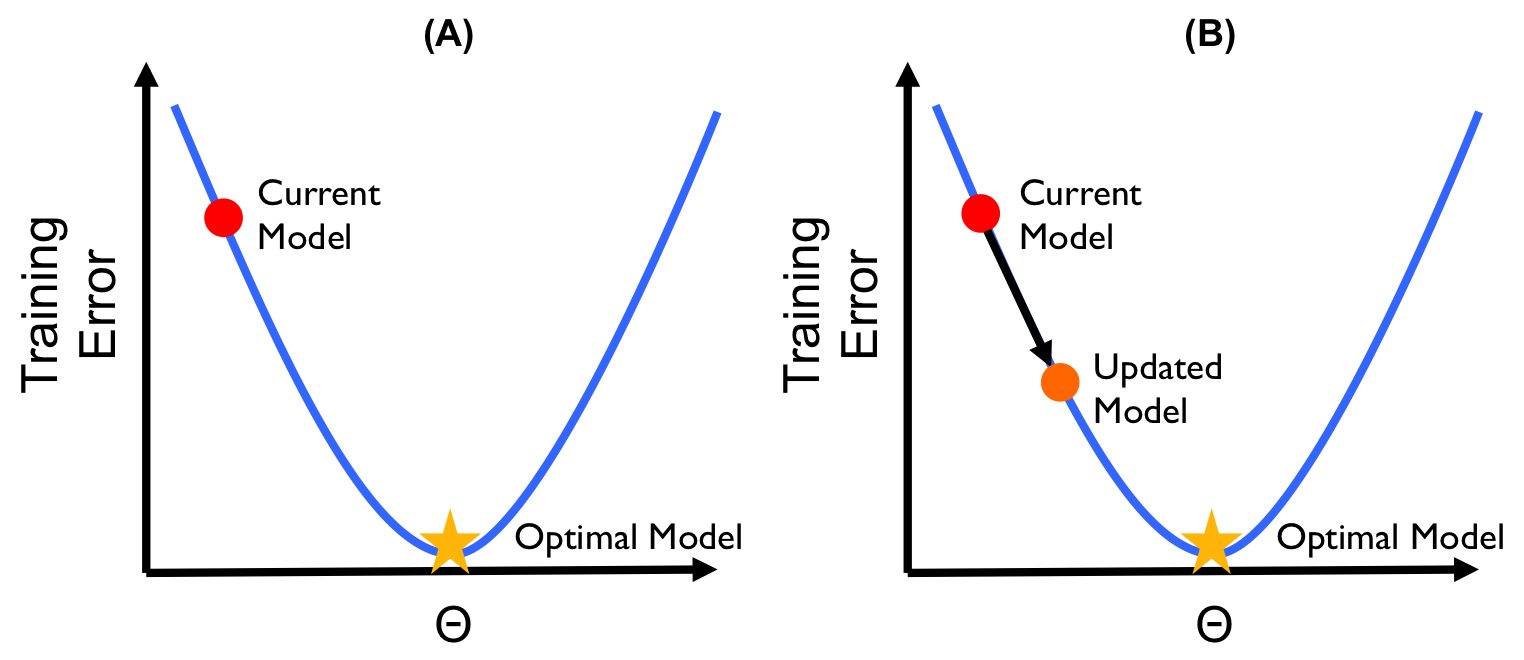
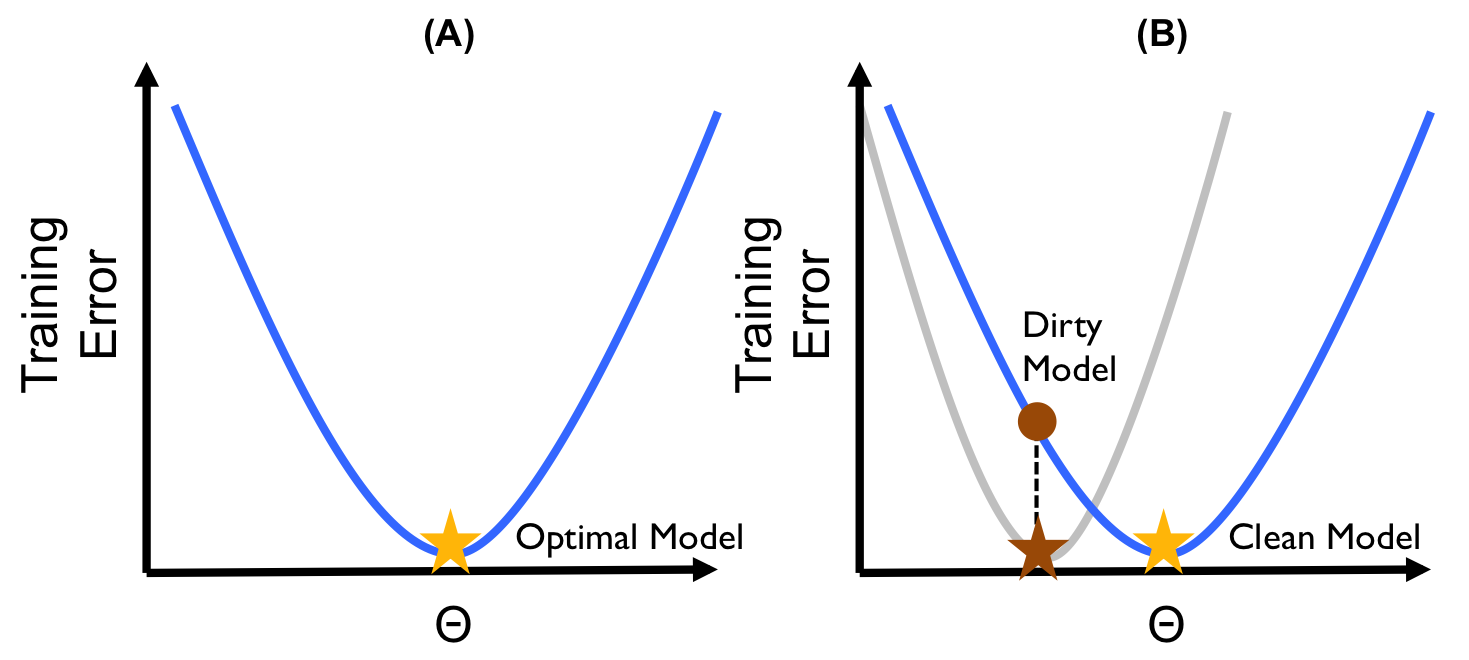
Updated

diff --git a/optimal.tex b/optimal.tex
@@ -1,11 +1,15 @@
 \section{Iterative Model Update}\label{model-update}
-In this section, we describe how we iteratively update a dirty model based on
+In this section, we describe how we can iteratively update a dirty model based on
 a cleaned batch of data.
 We will show that this model update procedure can be interpreted as a Stochastic 
 Gradient Descent (SGD) algorithm, which gives us a theoretical framework to analyze
 convergence and bound the error at each step.
 
 \subsection{Model Update Problem}
+The high level challenge is that we want a model update technique that takes advantage of the entire dirty data and a small sample of cleaned data.
+We want this technique to have some provable guarantees like the conditions under which we converge to the right answer as the entire data is cleaned, bounds on error of intermediate results, and at least a guarantee in expectation that the error will not increase after cleaning more data.  
+
+First, let us describe the abstract problem.
 Suppose we have a cleaned batch of data $S_{clean}$ with features and labels $(X_{clean},Y_{clean})$, and a dirty model $\theta^{(d)}$. 
 In the model update problem, we update the dirty model with some function $f(\cdot)$ i.e.,:
 \[
@@ -16,28 +20,49 @@ Our goal is that these updates should minimize the error of the updated model an
 error(\theta^{new}) = \| \theta^{new} - \theta^{(c)} \|
 \]
 
-\subsection{Exploiting the Model's Geometry}
-\sys addresses the update problem by using the model's geometry.
+There are a couple of challenges that we address in this section.
+As described in our architecture, we do not want to clean data that we have already cleaned or is expected to be clean.
+This leads to our first challenge since the sample $S_{dirty}$ may not be representative of the full data, only $R_{dirty}$. 
+We have to design our update in such a way that it does not bias our result towards the newly cleaned data. 
+The second challenge is that we need to get the sample $S_{dirty}$ from $R_{dirty}$.
+Some records, if cleaned, are more informative than others.
+We show how to incorporate non-uniform sampling into our update and formulate the theoretical optimal sampling problem.
+In the next section, we will discuss how to practically address the optimal sampling problem.
+
+\subsection{The Geometry Of The Problem}
+Let us try to understand the geometry of this problem in one dimension (i.e., the parameter $\theta$ is a scalar vale).
 We restrict the class of Machine Learning models to convex regularized loss problems.
 That is, as we vary the model $\theta$ the loss is bowl-shaped (visualized in Figure \ref{update-arch2}a).
-The model update problem can be visualized as follows.
-We have a model $\theta^{(d)}$ (visualized in red) that is suboptimal with respect to the clean data.
-We want to get to the optimal clean model $\theta^{(c)}$ which is visualized as a yellow star.
+There is a unique optimal value for $\theta$ at the bottom of the bowl.
+If we have dirty data, we are training a model with respect to an incorrect data distribution.
+In other words, we are optimizing the wrong function (Figure \ref{update-arch2}b).
+The resulting dirty model can be thought of as a suboptimal point on clean curve.
 
 \begin{figure}[ht!]
 \centering
  \includegraphics[width=\columnwidth]{figs/update-arch2.png}
- \caption{In \sys, we explore an important class of Machine Learning problems where the loss function (i.e., training error) varies convexly. A stale model can be thought of as a sub-optimal point and we want to move towards the optimal point. \label{update-arch2}}
+ \caption{In \sys, we explore an important class of Machine Learning problems where the loss function (i.e., training error) varies convexly. An incorrect model can be thought of as a sub-optimal point. \label{update-arch2}}
 \end{figure}
 
-Ideally, we want an update that goes in the right direction (one that points to the optimum) along the loss curve (Figure \ref{update-arch2}b).
+We have a model $\theta^{(d)}$ (visualized in brown) that is suboptimal with respect to the clean data.
+We want to get to the optimal clean model $\theta^{(c)}$ which is visualized as a yellow star.
+If we had all of the clean data we could compute $\theta^{(c)}$.
+However, at each iteration, we only have a sample of clean data.
+To resolve this issue, we can exploit the model's geometry.
+For this class of models, given a suboptimal point, we can find the direction to the 
+the global optimum.
 Mathematically, this direction corresponds to gradient of the loss with respect to $\theta$, and we need to move some distance $\gamma$ along this direction:
 \[
 \theta^{new} \leftarrow \theta^{(d)} - \gamma \cdot \nabla\phi(\theta^{(d)})
 \]
-However, since we can only clean a sample of data, we only approximate the globally optimal direction.
-Our class of Machine Learning models are based on loss minimization, that is they are a sum of losses, and we know that sums commute with derivatives.
+The intuition, which we will formalize in Section \ref{sgd}, is that if we are on average in the right direction the algorithm is guaranteed to converge with analytics bounds on the convergence rate.
+At the optimal point, the expected gradient will be zero.
+So intuitively, this approach iteratively moves the model downhill, or corrects, the dirty model until the budget is reached.
 
+
+\subsection{Average Gradient From a Sample}
+Our class of Machine Learning models are based on loss minimization, that is they are a sum of losses, and we know that sums commute with derivatives.
+So to calculate the average gradient from a sample, we simply calculate the gradient at every data point and average over them.
 Let $S$ be a sample of data, where each $i \in S$ is drawn with probability $p_i$.
 We can approximate the global gradient:
 \[
@@ -47,15 +72,8 @@ Then for every batch of data cleaned, we apply the update to the current best mo
 \[
 \theta^{(t)} \leftarrow \theta^{(t-1)} - \gamma \cdot g_{S}(\theta^{(t-1)})
 \]
-In other words, we are moving approximately in the right direction.
-The intuition, which we will formalize in Section \ref{sgd}, is that if we are on average in the right direction the algorithm is guaranteed to converge with analytics bounds on the convergence rate.
-At the optimal point, the expected gradient will be zero.
-So intuitively, this approach iteratively moves the model downhill, or corrects, the dirty model until the budget is reached.
 
-The tricky part is that only a subset of the records are dirty.
-In our architecture, we suggested that we want to clean only the records that
-are actually dirty $R_{dirty}$.
-For example, as data are cleaned, there is no need to resample this data.
+The tricky part is that only a subset of the records are are cleaned.
 The consequence of this is that the estimate $g_{S}(\theta)$ is now biased.
 We also have to compensate for this bias by averaging this estimate with the gradient with respect to the clean data:
 \[
@@ -70,30 +88,21 @@ So then our final gradient update becomes:
 \theta^{(t)} \leftarrow \theta^{(t-1)} - \gamma \cdot g(\theta) \blacksquare
 \]
 
-\subsection{Iterative Model Correction Algorithm}
+\subsection{Model Update Algorithm}
 Following from this geometric analysis, we propose the iterative model correction algorithm.
 We initialize the algorithm with $\theta^{(d)}$ which is the dirty model.
 At each iteration $i=\{1,...,t\}$, we clean a batch of data $b$ selected from the set of candidate dirty records $R_{dirty}$.
 Then, starting with $\theta^{(d)}$, we apply an averaged gradient update to get $\theta^{(i)}$.
 We iterate until our budget of cleaning $k = t \cdot b$ record is reached.
 
-We present the algorithm here:
+We present the model update algorithm here:
 \begin{enumerate}[noitemsep]
-\item Initialize with $\theta^{(0)} = \theta^{(d)}$ as the dirty model, $t$ iterations, with a batch size $b$, $R_{dirty}$, and $R_{clean} = R - R_{dirty}$.
-\item Hyperparamters $\gamma$, $\alpha$, $\beta$.
-\item For rounds i=1...t
-\begin{enumerate}
-	\item Draw a sample of $b$ records from $R_{dirty}$ called $S_{dirty}$.
-	\item Apply data cleaning to the sample of data call the result $S_{clean}$.
 	\item Calculate the gradient over the sample of clean data and call the result $g_S(\theta^{(i-1)})$
-	\item Calculate the average gradient over all the data in $R_{clean}$, and call the result $g_C(\theta^{(i-1)})$
+	\item Calculate the average gradient over all the data in $R_{clean}$, and call the result $g_C(\theta^{(i)})$
 	\item Apply the following update rule:
 	\[
-	\theta^{(i)} \leftarrow \theta^{(i-1)} - \lambda \cdot(\alpha\cdot g_S(\theta^{(i-1)}) + \beta \cdot  g_C(\theta^{(i-1)}))
+	\theta^{(i+1)} \leftarrow \theta^{(i)} - \lambda \cdot(\alpha\cdot g_S(\theta^{(i)}) + \beta \cdot  g_C(\theta^{(i)}))
 	\]
-	\item Update the sets $R_{dirty} = R_{dirty} - S_{dirty}$, $R_{clean} = R_{clean} \cup S_{clean}$
-\end{enumerate}
-\item Return $\theta^{(T)}$
 \end{enumerate} 
 
 \subsubsection{Selecting the Parameters}
@@ -113,7 +122,7 @@ First, we will review all of the parameters that need to be set.
 \vspace{0.5em}
 
 \noindent\textbf{Choosing $S$: } As we mentioned, the optimal clean model depends on \emph{all} the clean data, not just a sample. 
-So $g_S$ is really an approximation of the gradient with some error $g^* \pm \epsilon$. 
+So $g_S$ is really an approximation of the the true gradient $g^*$ with some error $g^* \pm \epsilon$. 
 The quality of the update depends on how well we can approximate $g^*$ using $g_S$.
 The problem is how should we construct the sample of data to clean $S$ to get the most accurate update.
 In particular, how should we choose the sampling probabilities $p_i$ for each $i \in S$ such that the error is minimized.
@@ -174,7 +183,7 @@ Our algorithm is essentially an arguement for lazy materialization, where we onl
 In the Machine Learning and Optimization literature, SGD algorithms are optimized to avoid scanning the entire data.
 Uniform sampling is cheap so it is the preferred solution.
 However, there are a few observations about the data cleaning problem that suggest that we can do better if we carefuly select which points to clean.
-The key property that we need to preserve is unbiasedness (Proposition \ref{unbiased}).
+The key property that we need to preserve is unbiasedness of the gradient (Proposition \ref{unbiased}), so our updates are on average correct.
 
 \vspace{0.5em}
 
@@ -207,10 +216,11 @@ This result follows directly from the linearity of expectation, since we are add
 
 \vspace{0.5em}
 
-\noindent\textbf{Optimized Sampling: }
-In our problem, we are trying to select a sample $S_{dirty}$ from $R_{dirty}$.
+\noindent\textbf{Optimal Sampling Problem: }
+In this problem, we are trying to select a sample $S_{dirty}$ from $R_{dirty}$.
 If we sample every element $i \in R_{dirty}$ with probability $p_i$, the question is
 how can we compute a set of $\{p_i\}$ such that variance of the gradient $\sigma^2$ is minimized.  
+It will turn out that optimal distribution is not realizable without knowing the fully cleaned data, and we will address this problem in the next section.
 To construct these sampling probabilities, we first need the following lemma:
 \begin{lemma}\label{impsample}
 Given a set of real numbers $A = \{a_1,...,a_n\}$, let $\hat{A}$ be 
@@ -218,14 +228,20 @@ a sample with replacement of $A$ of size k.
 If $\mu$ is the mean $\hat{A}$, the sampling distribution that minimizes
  the variance of $\mu$, i.e., the expected square error, is $p(a_i) \propto a_i$.
 \end{lemma}
-\begin{proof}
-This proof follows from \cite{mcbook}, we present it here for intuition.
-\reminder{Will be moved to appendix}
+\begin{proof}[Sketch]
+This proof follows from \cite{mcbook}, as it is a straight forward importance sampling result.
 It is easy to verify that for sampling probabilities $p(a_i)$, that the unbiased
 estimate of the mean is:
 \[
 \mu = \frac{1}{nk}\cdot\sum_{i\in\hat{A}}^k \frac{a_i}{p_i}
 \]
+If we minimize the variance $Var(\mu)$, we can find that:
+\[
+p_i = \frac{\mid a_i \mid }{\sum_i \mid a_i \mid}
+\]
+\end{proof}
+
+\iffalse
 The variance of this estimate is given by:
 \[
 Var(\mu) = \mathbb{E}(\mu^2)-\mathbb{E}(\mu)^2
@@ -262,7 +278,8 @@ Solving the system of equations, we get:
 \[
 p_i = \frac{\mid a_i \mid }{\sum_i \mid a_i \mid}
 \]
-\end{proof}
+\fi
+
 
 Based on Lemma \ref{impsample}, we now derive an optimal sampling distribution.
 Lemma \ref{impsample} shows that when estimating a mean of numbers with sampling, the distribution with optimal variance is where we sample proportions to the values.
@@ -282,6 +299,6 @@ However, a better approximation will lead to an improved convergence rate.
 \begin{figure}[ht!]
 \centering
  \includegraphics[width=0.6\columnwidth]{figs/update-arch3.png}
- \caption{The minimum variance estimate of an expected value of a function of a random variable $\mathbb{E}(f(X))$ is found by placing more samples (marked in yellow) on the ``spikes" of the function.\label{update-arch3}}
+ \caption{The minimum variance estimate of an expected value of a function of a random variable $\mathbb{E}(f(X))$ is found by placing more samples (marked in yellow) on the higher parts of the function.\label{update-arch3}}
 \end{figure}
 

diff --git a/impestimate.tex b/impestimate.tex
@@ -1,22 +1,18 @@
 \section{Approximating the Optimal Distribution}\label{sampling}
 This section describes our solution to problem of constructing and maintaining an inexpensive estimate of the optimal sampling distribution.
+Our SGD formulation shows that for any known sampling distribution where the probabilites are all greater than zero, we can converge to the right answer.
+However, lower variance distributions will lead to faster convergence.
+The theoretically minimum variance sampling distribution is not realizable in practice, and will show how to approximate this distribution.
 
-\subsection{Challenges}
+\subsection{Challenges and Goal}
 The optimal sampling distribution is dependent on a value that we cannot know without data cleaning $\nabla\phi(x^{(clean)}_i,y^{(clean)}_i,\theta^t)$.
 One way to approximate this distribution is to learn a function $e(\cdot)$ mapping $(x_{clean}, y_{clean})$, based on the data that we have cleaned.
 Suppose, we use a regression technique based on the previous data.
 This is a high-dimensional regression problem which may have to learn a very complicated relationship between dirty and clean data.
-The biggest challenge with such an estimator is the cold start problem, where if we have cleaned a very small number of errors, the estimator will be inaccurate. 
+The biggest challenge with such an estimator is the cold start problem, where if we have cleaned a very small number of errors, the estimator will be inaccurate.
 In \sys, we want to be able to make as much progress as possible in the early iterations so this technique may not work.
 In general, the more complex the model, the more data it will require before sufficient accuracy.
 We take an alternative approach, where we try to exploit what we know about data cleaning to produce an estimate for groups of similarly corrupted records.
-
-\subsection{Error Decoupling}
-We come back to the insight of the last section, where error detection is often much easier than error repair.
-For many types of data error, we can return a subset of corrupted attributes and in turn a subset of features that are corrupted; all without cleaning the data.
-Recall, that when we formalized the error detection problem, we ensured that associated with each $r \in R_{dirty}$ is a set of errors $e_r$ which is a set that identifies a set of corrupted columns.
-We will show how we can use this property to construct a coarse estimate of the clean value.
-The main idea is that if we can calculate average changes for each feature, then given an uncleaned (but dirty) record, we can add these average changes to correct the gradient.
 
 \begin{example}
 Consider our EEG dataset with multiple types of errors. 
@@ -28,11 +24,28 @@ Then, we have new record ($r_3$,$\{1,2,3,6\}$).
 We want to be able to use the cleaning results from $r_1,r_2$ to estimate the gradient in $r_3$.
 \end{example}
 
+If most of the features are correct, it would seem like the gradient is only
+incorrect in one or two of its components.
+It would seem like we essentially have the clean gradient.
+The problem is that the gradient $\nabla\phi(\cdot)$ can be a very non-linear function of the features that couple features together.
+For example, let us look at the gradient for linear regression:
+\[
+\nabla\phi(x,y,\theta) = (\theta^Tx - y)x
+\]
+We see that it is not possible to isolate the effect of a change of one feature on the gradient.
+Even if one of the features is corrupted, all of the gradient components will be incorrect.
+
+\subsection{Error Decoupling}
+We can try to approximate the gradient in a way that the effects of features on the gradient are decoupled.
+Recall, that when we formalized the error detection problem, we ensured that associated with each $r \in R_{dirty}$ is a set of errors $e_r$ which is a set that identifies a set of corrupted features.
+We will show how we can use this property to construct a coarse estimate of the clean value.
+The main idea is that if we can calculate average changes for each feature, then given an uncleaned (but dirty) record, we can add these average changes to correct the gradient.
+
 Let us formalize this intuition.
 Instead of computing the actual gradient with respect to the 
 true clean values, let us compute the conditional expectation given that a set of features and labels $f_r$ are corrupted:
 \[
-p_i \propto \mathbb{E}(\nabla\phi(\theta_{(t)}^Tx_{clean},y_{clean}) \mid f_r)
+p_i \propto \mathbb{E}(\nabla\phi(\theta_{(t)}^Tx_{clean},y_{clean}) \mid e_r)
 \]
 What we mean by corrupted features is that:
 \[
@@ -41,20 +54,15 @@ i \notin f_r \implies x_{clean}[i] - x_{dirty}[i] = 0
 \[
 i \notin f_r \implies y_{clean}[i] - y_{dirty}[i] = 0
 \]
-So basically, if most of the features are correct, it would seem like the gradient is only
-incorrect in one or two of its components.
-The problem is that the gradient $\nabla\phi(\cdot)$ can be a very non-linear function of the features that couple features together.
-For example, let us look at the gradient for linear regression:
-\[
-\nabla\phi(x,y,\theta) = (\theta^Tx - y)x
-\]
-We see that it is not possible to isolate the effect of a change of one feature on the gradient.
-Decoupling allows us to treat errors conditioned on each feature independently.
-Alternative techniques such as taking the average change the gradient, without this property, would require to condition on every distinct set of corrupted features which can be combinatorially large. 
 
-\subsection{Linear Approximation}
-We can approximate the gradient in such a way that we can do this.
-This approximation represents a linearization of the errors.
+The needed approximation represents a linearization of the errors.
+We will show that the sampling distribution can be estimated in the form:
+\[
+p_{r}\propto\|\nabla\phi(x,y,\theta^{(t)}) + M_x \cdot \Delta_{rx} +  M_y \cdot \Delta_{ry}\|
+\]
+where $M_x$, $M_y$ are matrices and $\Delta_{rx}$ and $\Delta_{ry}$ are average change vectors for the corrupted features in $r$. 
+
+\subsection{Deriving $M_x$, $M_y$}
 We can take the expected value of the Taylor series expansion around the dirty value.
 If $d$ is the dirty value and $c$ is the clean value, the Taylor series approximation for a function $f$ is given as follows:
 \[
@@ -82,10 +90,13 @@ Then, $M_x = \frac{\partial}{\partial X}\nabla\phi$ is an $d \times d$ matrix, a
 Both of these matrices are computed with respect to dirty data, and we will present an example.
 $\Delta x$ is a $d$ dimensional vector where each component represents a change in that feature and $\Delta y$ is an $l$ dimensional vector that represents the change in each of the labels. 
 
-Let us return to the linear regression example, where the gradient is:
+\subsubsection{Example $M_x$, $M_y$}
+Let us walk through an example, where we calculate $M_x$, $M_y$.
+In the linear regression example, where the gradient is:
 \[
 \nabla\phi(x,y,\theta) = (\theta^Tx - y)x
 \]
+For a record, $r$, suppose we have a feature vector $x$.
 It we take the partial derivatives with respect to x $M_x$ is:
 \[
 M_x[i,i] = 2x[i] + \sum_{i \ne j} \theta[j]x[j] - y 
@@ -97,7 +108,7 @@ Similarly $M_y$ is:
 \[
 M_y[i,1] = x[i] 
 \]
-In the appendix, we describe the matrices for common convex losses \reminder{TR}.
+In the appendix, we describe the matrices for common convex losses.
 
 \subsection{More Accurate Early Error Estimates}
 We can give some intuition on why the linearization actually avoids amplifying estimation error.
@@ -151,6 +162,8 @@ Then, each record $r$ has a d-dimensional vector $\Delta_r$ which is constructed
 \end{lemma}
 
 With the above theorem, we finally have an approximation to our sampling weights: 
-\[p_{r}\propto\|\nabla\phi(x,y,\theta^{(t)}) + M_x \cdot \Delta_{rx} +  M_y \cdot \Delta_{ry}\|\]
+\[p_{r}\propto\|\nabla\phi(x,y,\theta^{(t)}) + M_x \cdot \Delta_{rx} +  M_y \cdot \Delta_{ry}\|
+\blacksquare
+\]
 
 

diff --git a/architecture.tex b/architecture.tex
@@ -5,7 +5,13 @@ Now, we overview the \sys architecture, its goals, and describe how our framewor
 The primary goal of \sys is to provide a framework that wraps around existing Machine Learning and Data Cleaning systems.
 Instead of cleaning the entire data upfront and then training a model, we initialize the framework with a model, and iteratively correct it with small batches of clean data.
 Built into the framework are feedback mechanisms that use information from the cleaning to improve performance on future batches of clean data.
+
 There are two basic operating modes of \sys: (1) error detection oracle and (2) adaptive error detection. 
+These two modes differ in the way they partition dirty and clean data, where (1) assumes we can differentiate the two in advance, and (2) assumes we can learn it from samples.
+Partitioning serves two purposes: (1) it reduces the variance of our updates because we can cheaply scan over data we know that is clean, and (2) it increases the fraction of actually dirty records in the candidate batch.
+A good example of why we need the second objective is seen in the context of crowdsourcing.
+If we have a crowdworker clean records, we will have to pay them for the task whether or not the record required cleaning.
+Partitioning has important ramifications since classifiying erroneous data as cleaned can impart a bias on our model.
 We will overview how the architecture and applications change based on these modes.
 
 First, we overview our notation and terminology:

diff --git a/optimizer.tex b/optimizer.tex
@@ -1,5 +1,5 @@
-\section{Classifier Partitioning}\label{imperfect} 
-In this section, we explore the case when the partitioning is imperfect.
+\section{Adaptive Error Detection}\label{imperfect} 
+In this section, we explore how we can handle the case where the error detection is learned as we clean data.
 
 \subsection{Using a classifier}
 An important aspect of our gradient update is partitioning the dirty and clean data.
